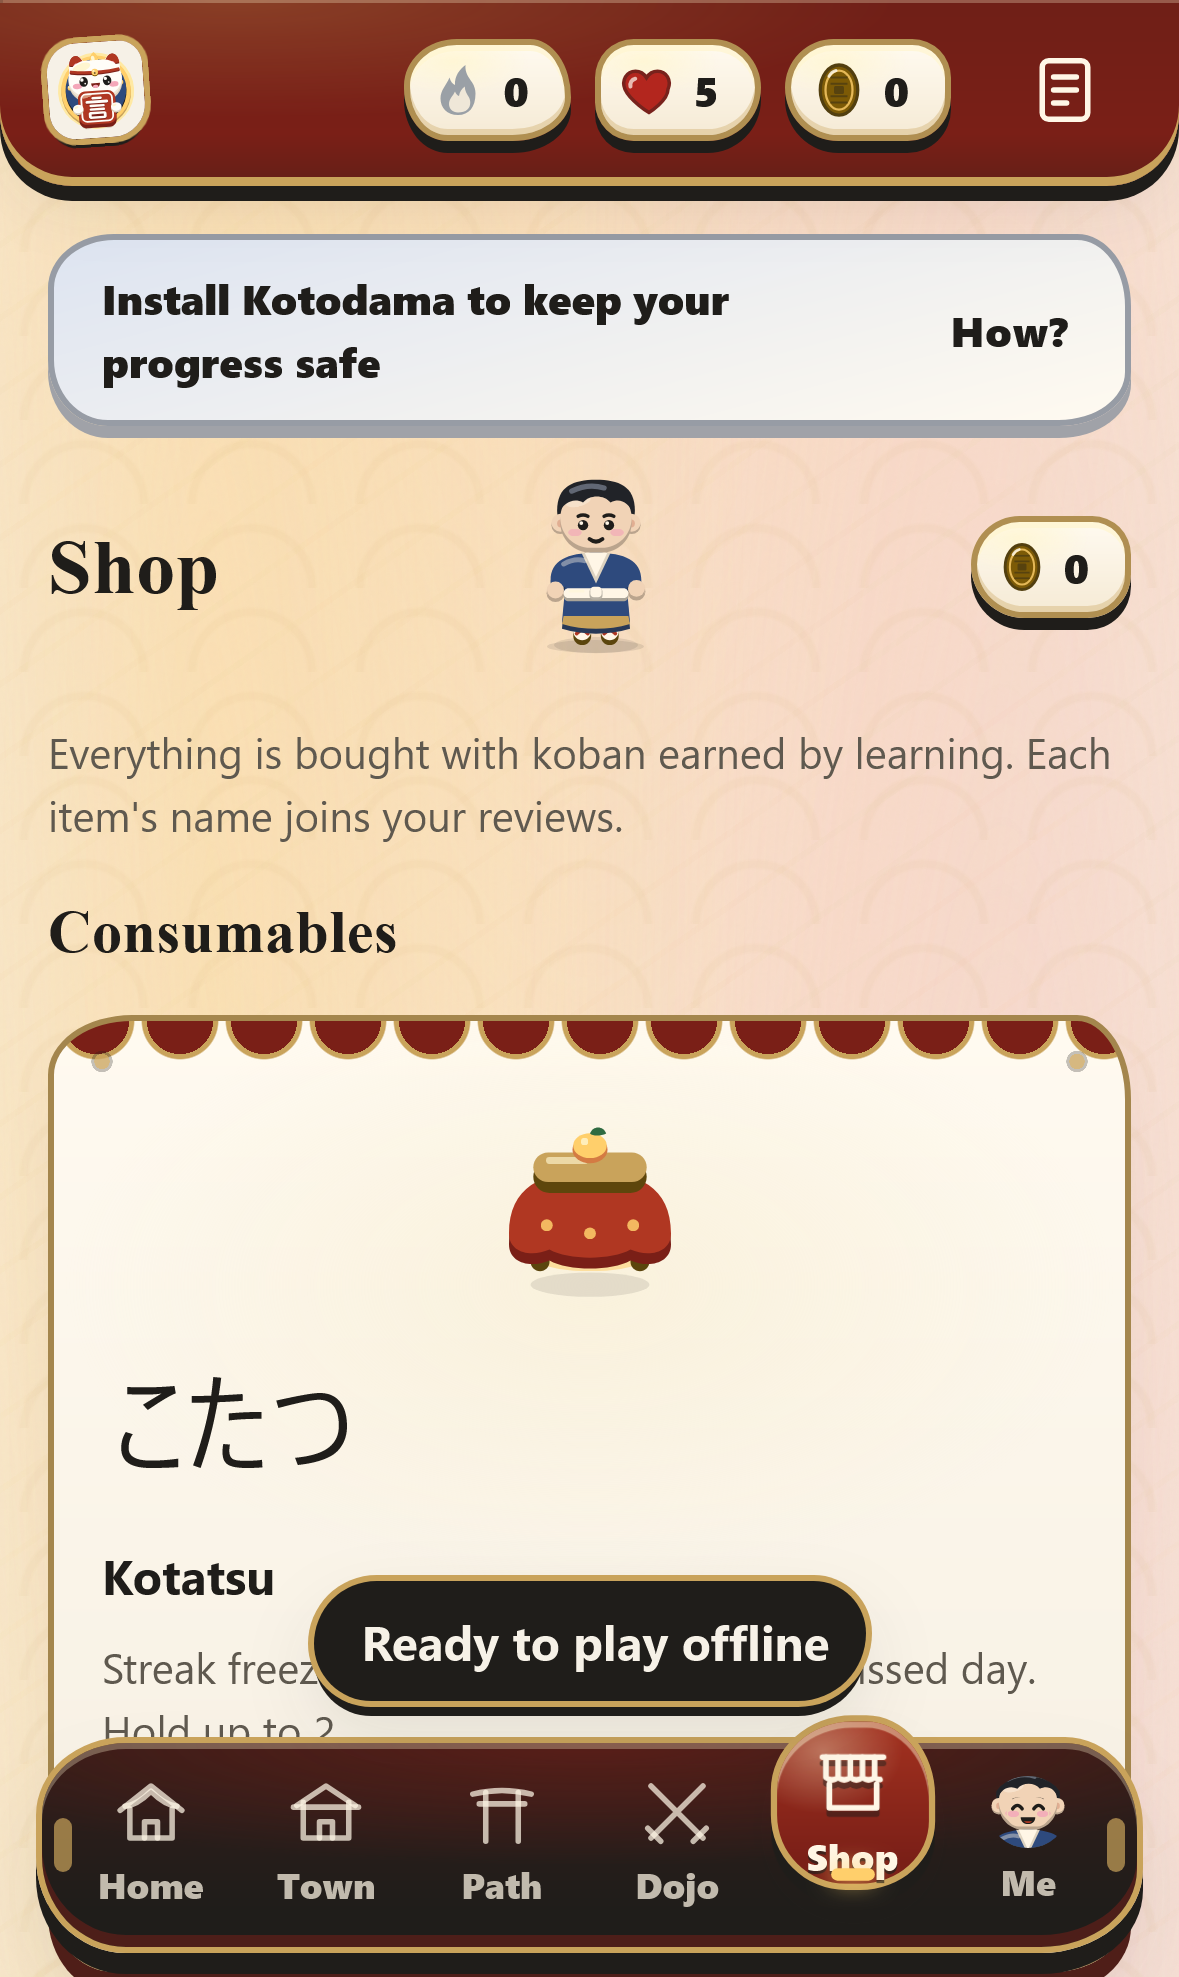
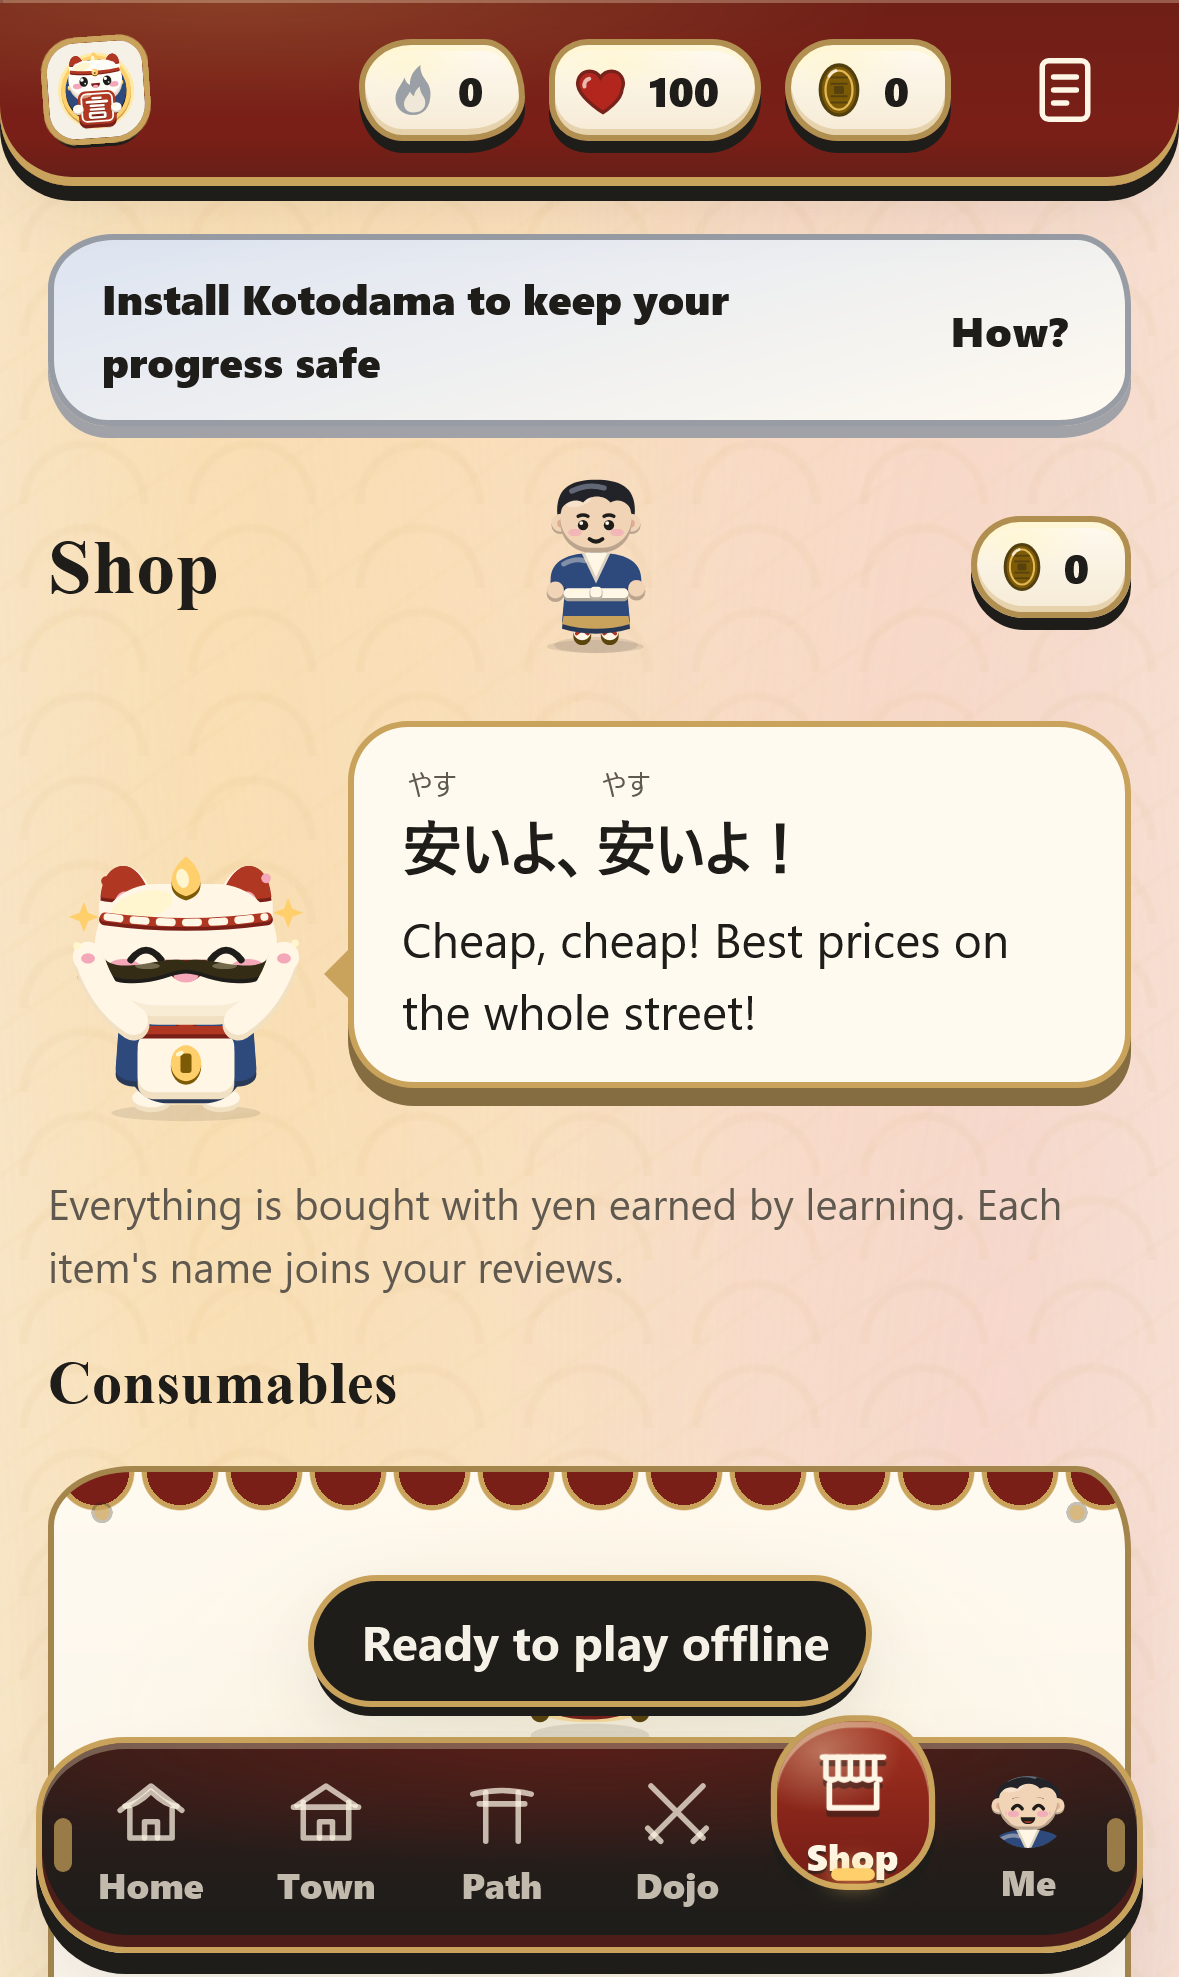
test(e2e): expectations in yen

diff --git a/e2e/golden.spec.ts b/e2e/golden.spec.ts
@@ -28,7 +28,7 @@ test('golden path: first lesson, rewards, reviews, persistence', async ({ page }
   await page.getByRole('button', { name: 'Continue' }).click();
 
   // Yen earned, the next node is unlocked, the items are scheduled.
-  await expect(page.getByLabel(/^1[5-9] yen|^[2-9]\d yen/)).toBeVisible();
+  await expect(page.getByLabel(/^1[5-9]\d yen|^[2-9]\d\d yen/)).toBeVisible();
   await page.goto('./#/collection');
   await expect(page.locator('.spirit')).toHaveCount(5);
 
@@ -46,7 +46,7 @@ test('town, shop and import screens render', async ({ page }, info) => {
   await settle(page);
   await page.screenshot({ path: shot('town', info.project.name) });
   await page.goto('./#/shop');
-  await expect(page.getByRole('button', { name: 'Buy Kotatsu for 60 yen' })).toBeDisabled();
+  await expect(page.getByRole('button', { name: 'Buy Kotatsu for 600 yen' })).toBeDisabled();
   await settle(page);
   await page.screenshot({ path: shot('shop', info.project.name), fullPage: false });
   await page.goto('./#/packs');
